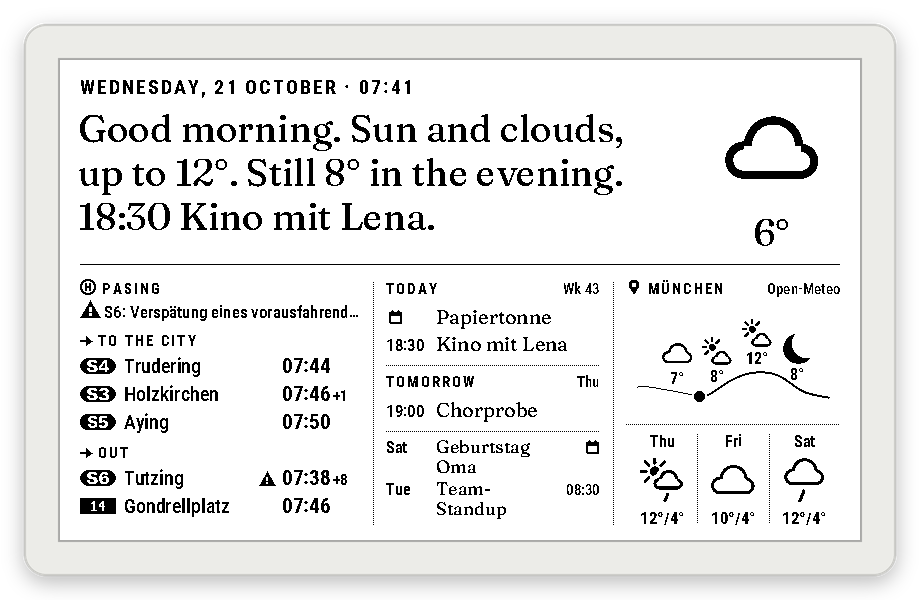
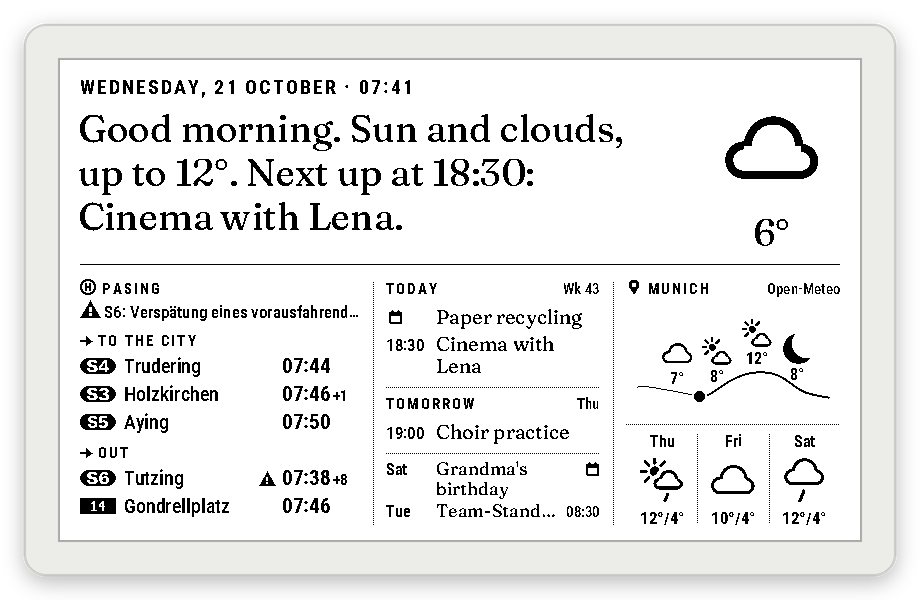
test: use English event titles in the English README picture
- new calendar fixture week_en.ics (the same week with English titles)
- the English simulation uses it and names the place "Munich"
- sim_briefing_morning_en.png and docs/images/screen-en.png redrawn
- disruption texts stay German: MVG sends them only in German

diff --git a/test/test_app_simulation/test_main.cpp b/test/test_app_simulation/test_main.cpp
@@ -739,14 +739,18 @@ void test_removed_grid_setting_is_reported() {
 }
 
 void test_briefing_morning_in_english() {
-  // The same morning in English (for the README): only the language and the
-  // names of the two directions differ.
+  // The same morning in English (for the README). Only the language, the
+  // names of the directions and of the place and the calendar (the same week
+  // with English titles) differ; disruption texts stay German, as MVG sends
+  // them only in German.
   std::string config = kBriefingConfig;
   config.replace(config.find(R"("language": "de")"), 16, R"("language": "en")");
   config.replace(config.find("In die Stadt"), 12, "To the city");
   config.replace(config.find("Raus"), 4, "Out");
+  config.replace(config.find("München"), std::strlen("München"), "Munich");
   Rig rig(config.c_str(), "briefing", true, kBriefingMorning);
   rig.weather.fixture = "muenchen_20261022.json";
+  rig.calendar.fixture = "week_en.ics";
   TEST_ASSERT_EQUAL_size_t(0, rig.issues.size());
   rig.app.controller().setNetworkConnected(true);
   rig.runUntil(0);
